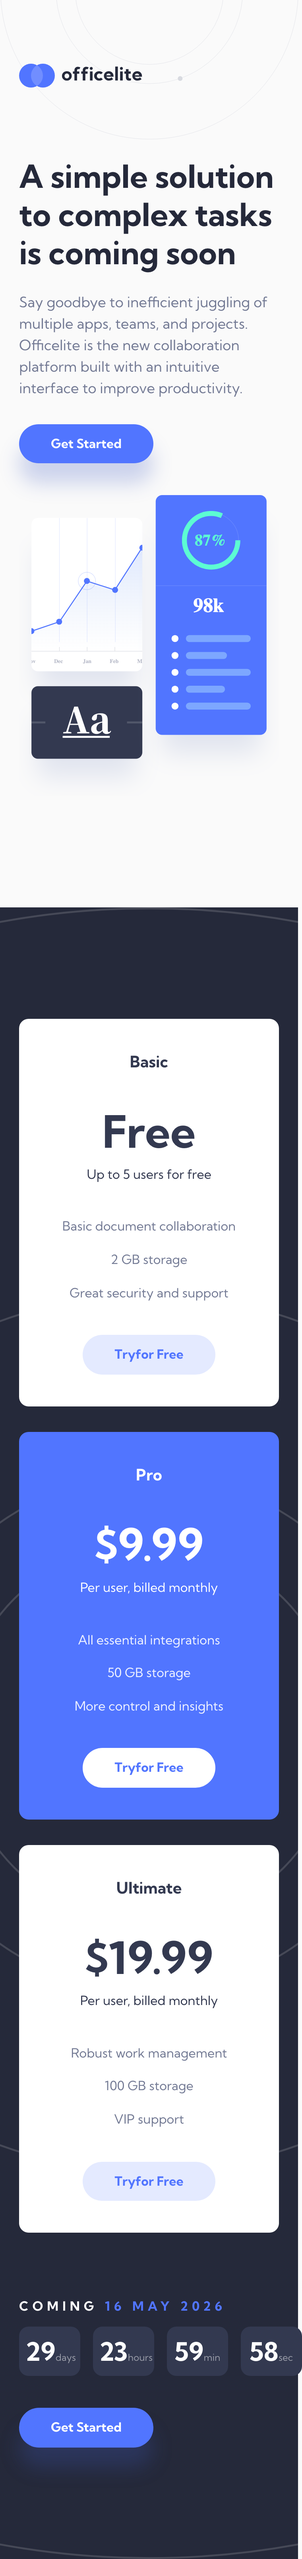
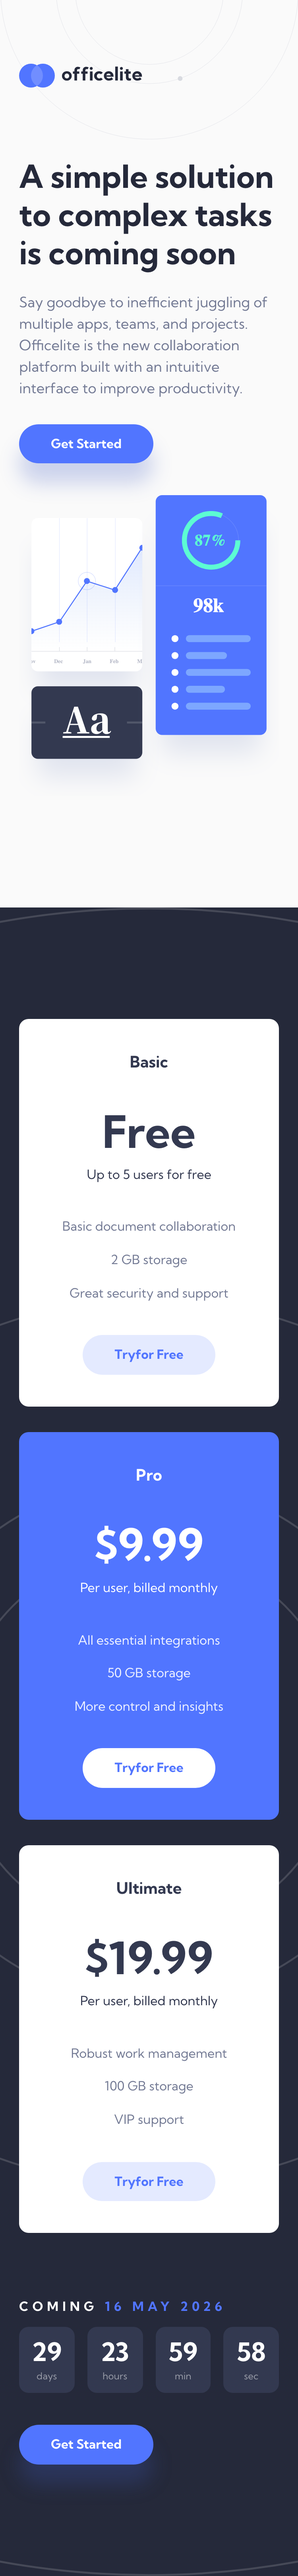
fix(css): keep mobile countdown within 375px; shrink README screenshots
- grid-template-columns minmax(0, 1fr) so the countdown row cannot
  outgrow its container via min-content
- stack .countdown__num and .countdown__label in the <600px breakpoint
  so all four cells fit cleanly without clipping labels
- retake 375px mobile screenshots and constrain README img widths so
  retina mobile shots no longer render oversized on GitHub

diff --git a/src/styles/_home.css b/src/styles/_home.css
@@ -109,12 +109,12 @@
 /* Countdown row */
 .countdown-row {
   display: grid;
-  grid-template-columns: 1fr;
+  grid-template-columns: minmax(0, 1fr);
   gap: var(--space-500);
   align-items: center;
 }
 @media (min-width: 900px) {
-  .countdown-row { grid-template-columns: 1fr auto; }
+  .countdown-row { grid-template-columns: minmax(0, 1fr) auto; }
 }
 .countdown-row__cta { justify-self: start; }
 @media (min-width: 900px) { .countdown-row__cta { justify-self: end; } }

diff --git a/src/styles/_components.css b/src/styles/_components.css
@@ -77,7 +77,13 @@
 .countdown__lead span { color: var(--color-blue-500); }
 
 @media (max-width: 600px) {
-  .countdown__cell { padding: var(--space-150) var(--space-100); }
+  .countdown__cell {
+    padding: var(--space-150) var(--space-100);
+    display: flex;
+    flex-direction: column;
+    align-items: center;
+    gap: 2px;
+  }
   .countdown__num { font-size: 2rem; }
   .countdown__label { font-size: .75rem; }
 }

diff --git a/README.md b/README.md
@@ -48,16 +48,16 @@ Users should be able to:
 ## Screenshots
 
 #### Home — Desktop (1440px)
-![Home desktop](./screenshots/home-desktop-1440.png)
+<img src="./screenshots/home-desktop-1440.png" alt="Home desktop" width="720">
 
 #### Home — Mobile (375px)
-![Home mobile](./screenshots/home-mobile-375.png)
+<img src="./screenshots/home-mobile-375.png" alt="Home mobile" width="280">
 
 #### Sign-up — Desktop (1440px)
-![Sign-up desktop](./screenshots/signup-desktop-1440.png)
+<img src="./screenshots/signup-desktop-1440.png" alt="Sign-up desktop" width="720">
 
 #### Sign-up — Mobile (375px)
-![Sign-up mobile](./screenshots/signup-mobile-375.png)
+<img src="./screenshots/signup-mobile-375.png" alt="Sign-up mobile" width="280">
 
 ## Built With
 
